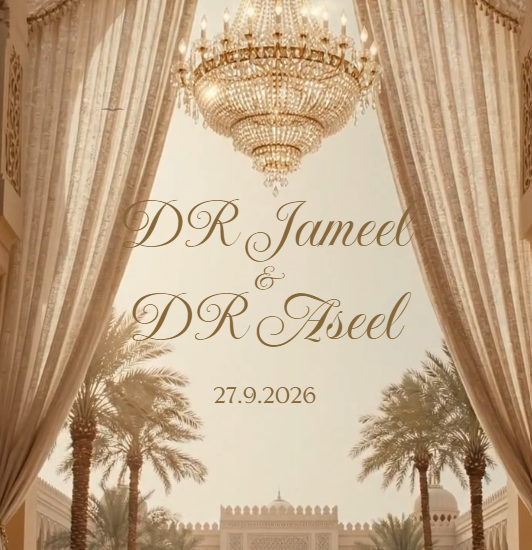
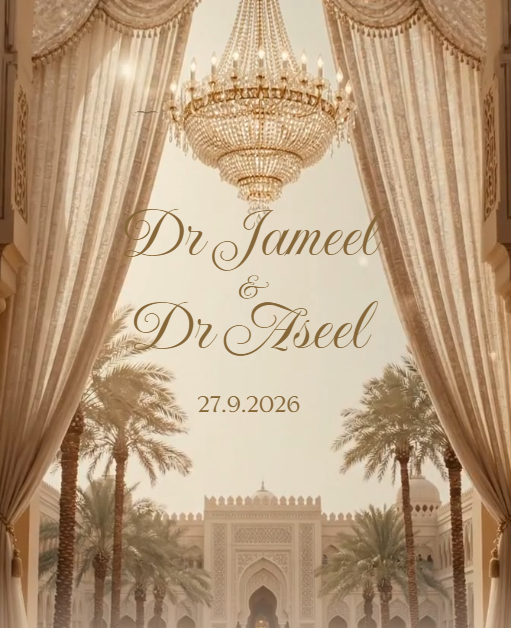
first commit

diff --git a/index.html b/index.html
@@ -1940,9 +1940,9 @@
                         </div>
                         <div class='t396__elem tn-elem tn-elem__24434337231779566247730000001 t-animate' data-elem-id='1779566247730000001' data-elem-type='text' data-field-top-value="334" data-field-left-value="320" data-field-height-value="100" data-field-width-value="560" data-field-axisy-value="top" data-field-axisx-value="left" data-field-container-value="grid" data-field-topunits-value="px" data-field-leftunits-value="px" data-field-heightunits-value="px" data-field-widthunits-value="px" data-animate-style="fadeinup" data-animate-duration="2.3" data-animate-delay="3" data-animate-distance="20" data-animate-mobile="y" data-field-textfit-value="autoheight" data-field-fontsize-value="59" data-field-top-res-320-value="329" data-field-left-res-320-value="-118" data-animate-delay-res-320="3" data-field-fontsize-res-320-value="59" data-field-left-res-480-value="-38" data-field-left-res-640-value="42" data-field-left-res-960-value="202">
                             <div class='tn-atom' field='tn_text_1779566247730000001'>
-                                DR Jameel<br/>
+                                Dr Jameel<br/>
                                 <br/>
-                                <br/>DR Aseel
+                                <br/>Dr Aseel
                             </div>
                         </div>
                         <div class='t396__elem tn-elem tn-elem__24434337231779566247730000003 t-animate' data-elem-id='1779566247730000003' data-elem-type='text' data-field-top-value="466" data-field-left-value="320" data-field-height-value="37" data-field-width-value="560" data-field-axisy-value="top" data-field-axisx-value="left" data-field-container-value="grid" data-field-topunits-value="px" data-field-leftunits-value="px" data-field-heightunits-value="px" data-field-widthunits-value="px" data-animate-style="fadeinup" data-animate-duration="2.3" data-animate-delay="3" data-animate-distance="20" data-animate-mobile="y" data-field-textfit-value="fixedsize" data-field-fontsize-value="19" data-field-top-res-320-value="464" data-field-left-res-320-value="-118" data-animate-delay-res-320="3" data-field-left-res-480-value="-40" data-field-left-res-640-value="40" data-field-left-res-960-value="200">
@@ -2841,23 +2841,22 @@
                                                 <div class="label">Seconds</div>
                                             </div>
                                         </div>
-                                        <script>
-                                            const eventLocal = new Date(2026,9,10,00,00,0);
-                                            const interval = setInterval( () => {
-                                                const now = new Date();
-                                                const distance = eventLocal - now;
-                                                if (distance < 0) {
-                                                    clearInterval(interval);
-                                                    document.getElementById("countdownContainer").innerHTML = "EXPIRED";
-                                                    return;
-                                                }
-                                                document.getElementById("days").textContent = String(Math.floor(distance / (1000 * 60 * 60 * 24))).padStart(2, '0');
-                                                document.getElementById("hours").textContent = String(Math.floor((distance % (1000 * 60 * 60 * 24)) / (1000 * 60 * 60))).padStart(2, '0');
-                                                document.getElementById("minutes").textContent = String(Math.floor((distance % (1000 * 60 * 60)) / (1000 * 60))).padStart(2, '0');
-                                                document.getElementById("seconds").textContent = String(Math.floor((distance % (1000 * 60)) / 1000)).padStart(2, '0');
-                                            }
-                                            , 1000);
-                                        </script>
+                                      <script> 
+    const eventLocal = new Date(2026,8,27,00,00,0); 
+    const interval = setInterval( () => { 
+        const now = new Date(); 
+        const distance = eventLocal - now; 
+        if (distance < 0) { 
+            clearInterval(interval); 
+            document.getElementById("countdownContainer").innerHTML = "EXPIRED"; 
+            return; 
+        } 
+        document.getElementById("days").textContent = String(Math.floor(distance / (1000 * 60 * 60 * 24))).padStart(2, '0'); 
+        document.getElementById("hours").textContent = String(Math.floor((distance % (1000 * 60 * 60 * 24)) / (1000 * 60 * 60))).padStart(2, '0'); 
+        document.getElementById("minutes").textContent = String(Math.floor((distance % (1000 * 60 * 60)) / (1000 * 60))).padStart(2, '0'); 
+        document.getElementById("seconds").textContent = String(Math.floor((distance % (1000 * 60)) / 1000)).padStart(2, '0'); 
+    }, 1000); 
+</script>
                                     </body>
                                 </html>
                             </div>
